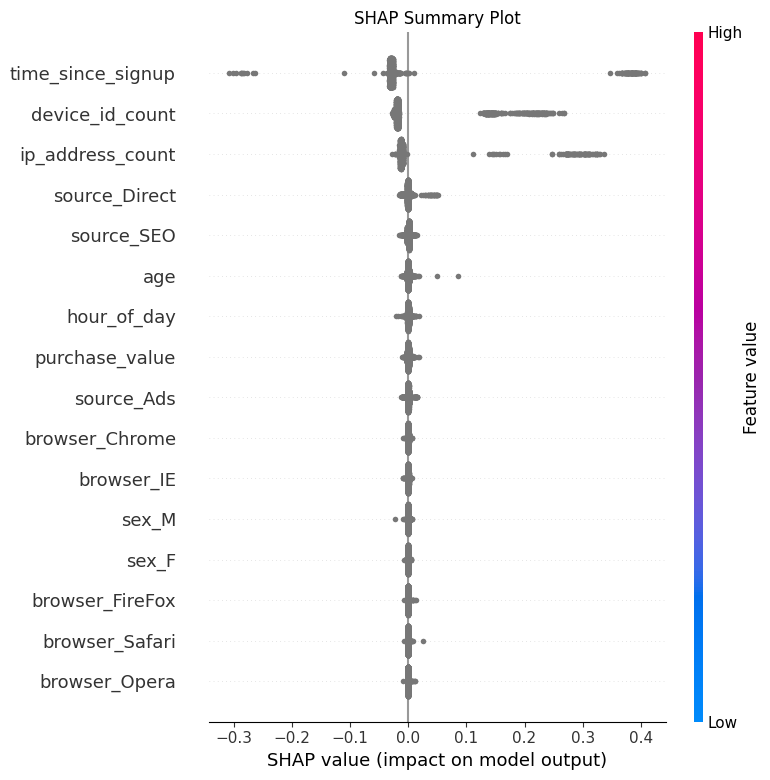
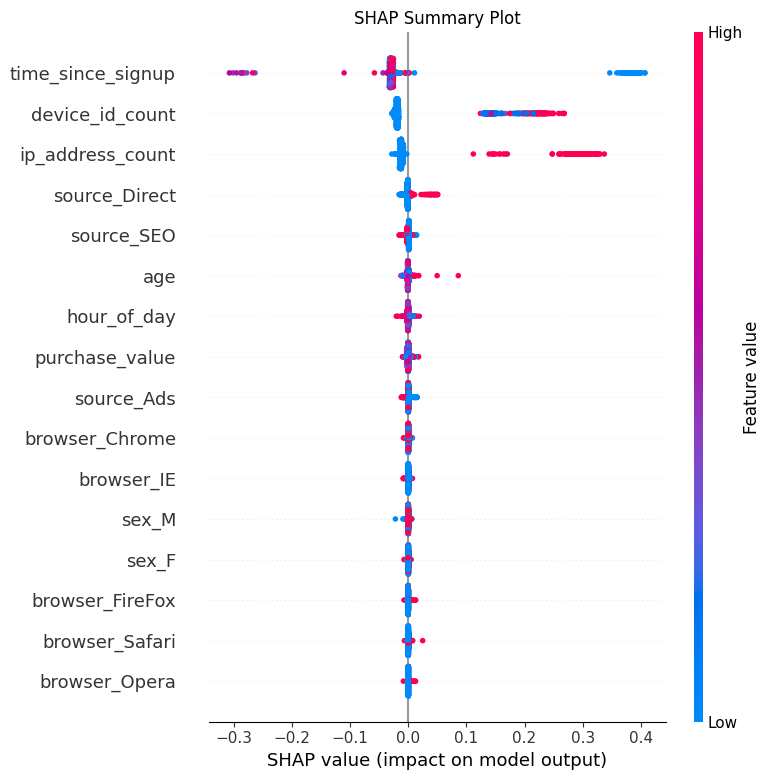
fix: Ensure SHAP summary plot uses numeric data for proper feature value coloring

diff --git a/scripts/explain_models.py b/scripts/explain_models.py
@@ -74,6 +74,11 @@ def run_explainability():
         X_shap = X_test.sample(sample_size, random_state=42)
     else:
         X_shap = X_test
+    
+    # Ensure all data is numeric for plotting (SHAP needs this for color coding High/Low)
+    X_shap = X_shap.apply(pd.to_numeric, errors='coerce')
+    print("X_shap dtypes:")
+    print(X_shap.dtypes)
         
     shap_values = explainer.shap_values(X_shap)
     
@@ -92,7 +97,8 @@ def run_explainability():
 
     # SHAP Summary Plot
     plt.figure(figsize=(10, 8))
-    shap.summary_plot(shap_values_target, X_shap, show=False)
+    # Explicitly using dot plot and passing features
+    shap.summary_plot(shap_values_target, X_shap, show=False, plot_type="dot")
     plt.title('SHAP Summary Plot')
     plt.tight_layout()
     save_plot(plt, 'shap_summary_plot.png')
